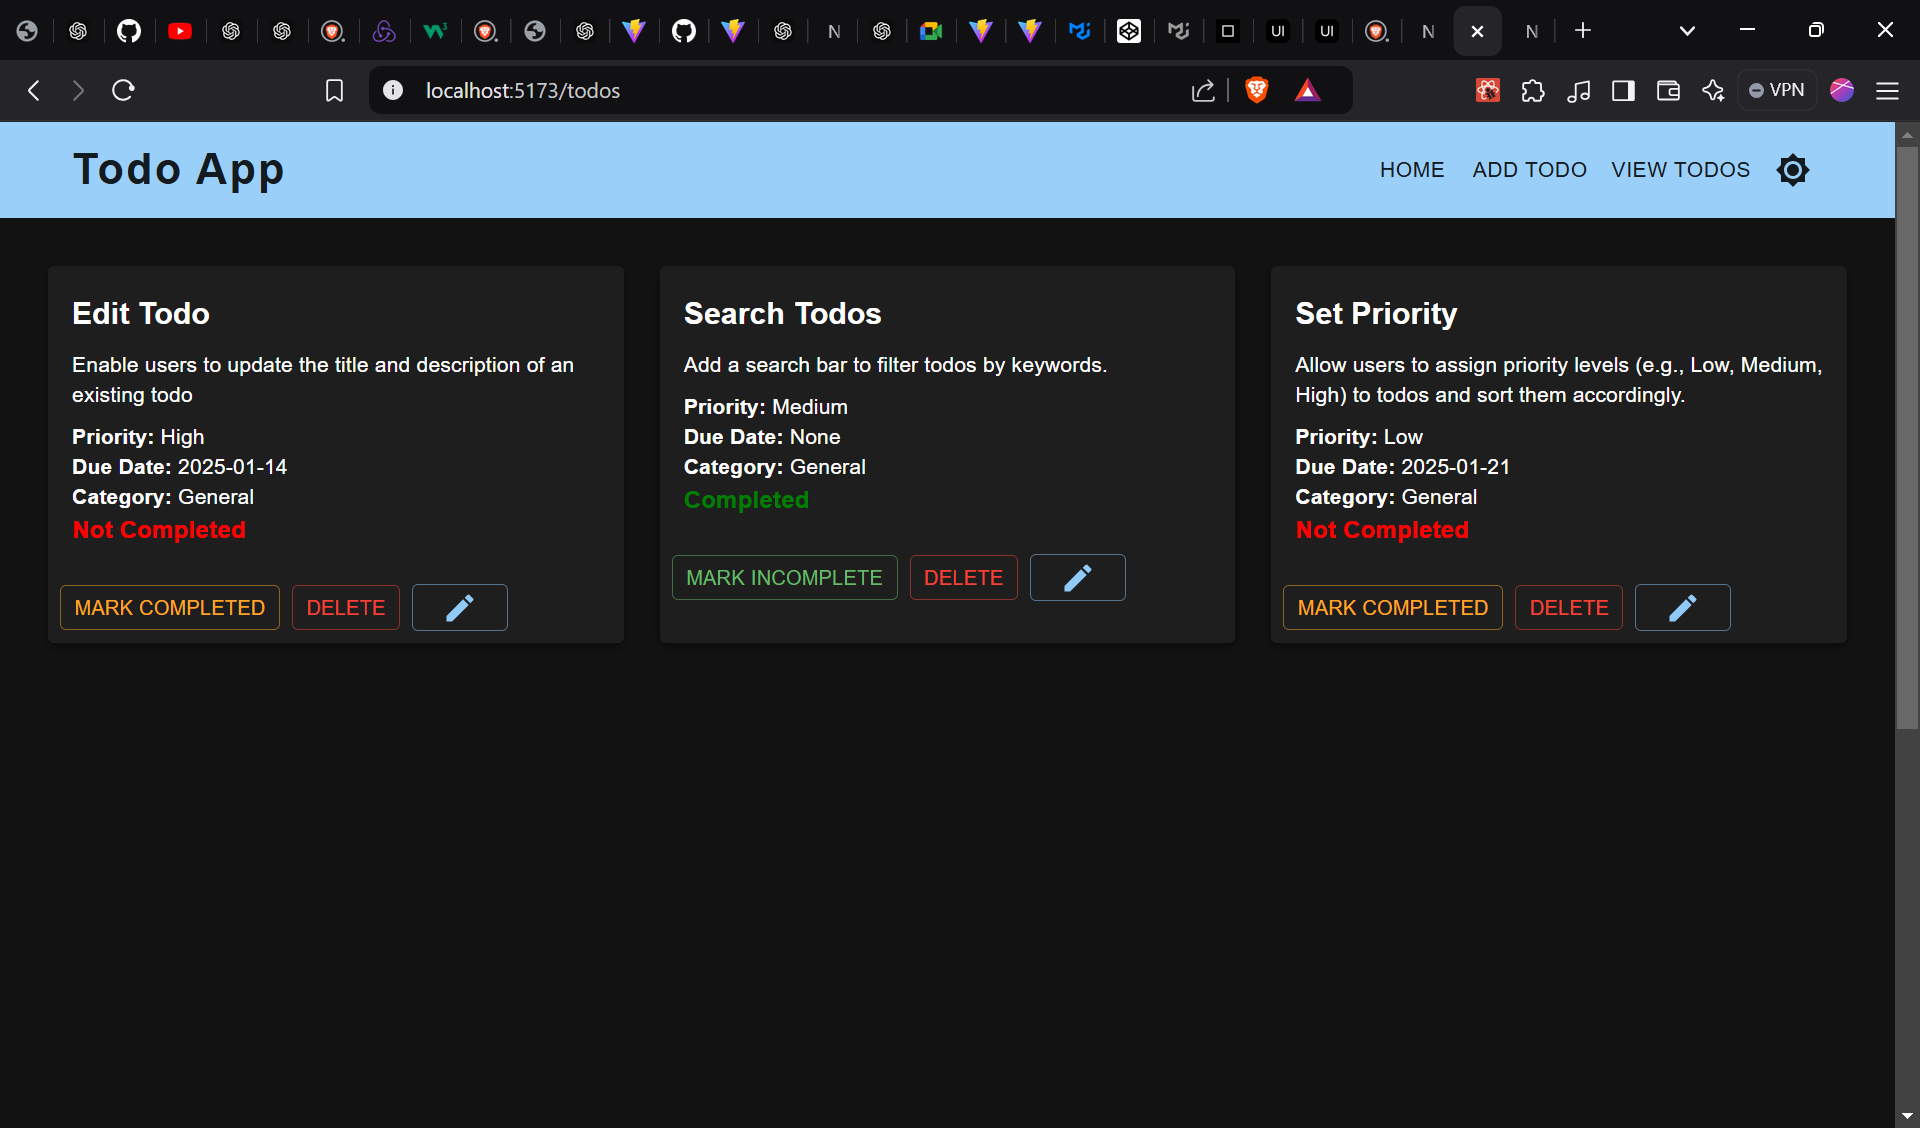
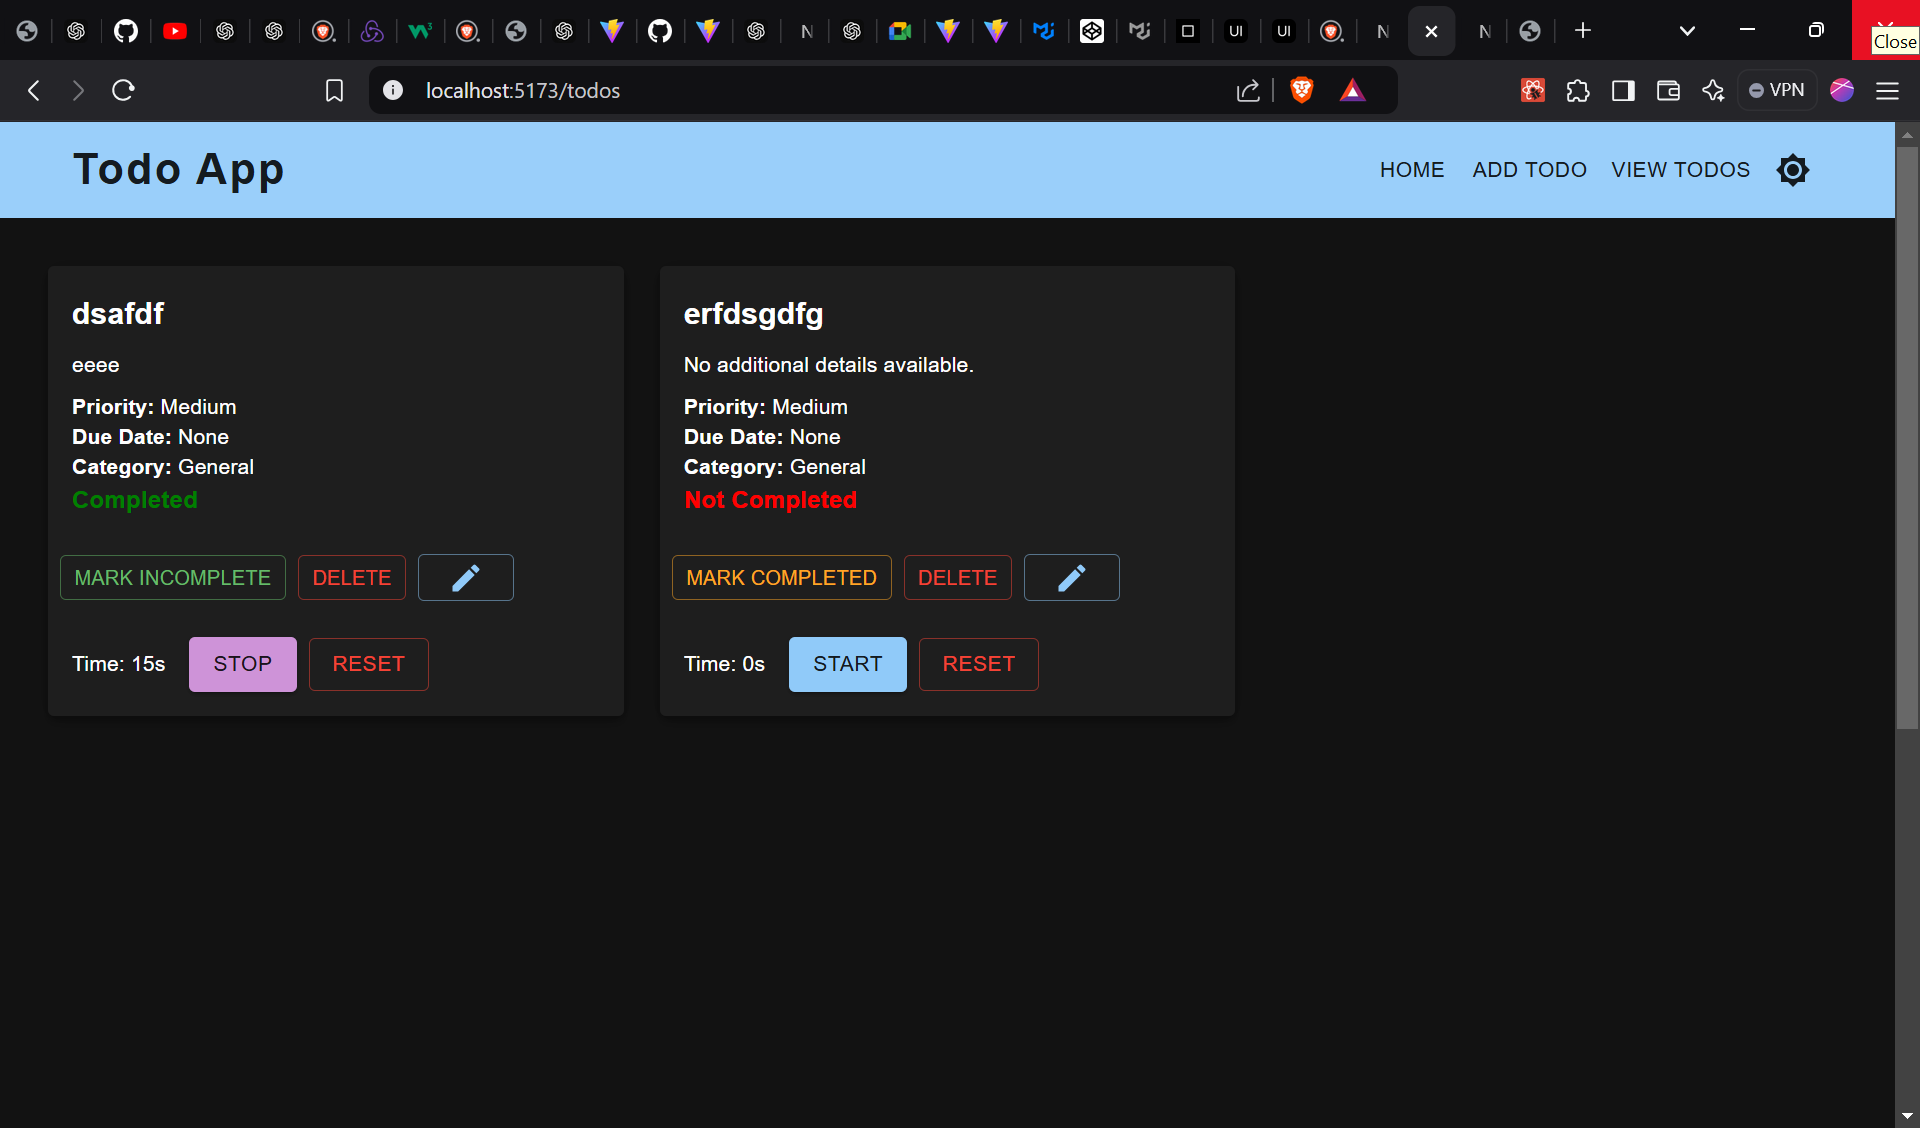
updated

diff --git a/src/component/TodoList.jsx b/src/component/TodoList.jsx
@@ -1,27 +1,14 @@
+// src/components/TodoList.js
 import React, { useState } from "react";
 import { useDispatch, useSelector } from "react-redux";
-import { useNavigate } from "react-router-dom";
-import {
-  Card,
-  CardContent,
-  Typography,
-  CardActions,
-  Button,
-  Dialog,
-  DialogActions,
-  DialogContent,
-  DialogTitle,
-  TextField,
-  MenuItem,
-  Box,
-} from "@mui/material";
+import { Box, Button, Card, CardActions, CardContent, Dialog, DialogActions, DialogContent, DialogTitle, MenuItem, TextField, Typography } from "@mui/material";
 import { deleteTodo, toggleTodo, updateTodo } from "../slices/todoSlice";
 import EditIcon from "@mui/icons-material/Edit";
+import Timer from './Timer';  // Import Timer component
 
 const TodoList = () => {
   const todos = useSelector((state) => state.todo.todos);
   const dispatch = useDispatch();
-  
 
   const [open, setOpen] = useState(false);
   const [currentTodo, setCurrentTodo] = useState(null);
@@ -71,17 +58,18 @@ const TodoList = () => {
     }
 
     if (currentTodo) {
-      if(confirm('you Want to save the Changes')){
-      dispatch(
-        updateTodo({
-          id: currentTodo.id,
-          title: updatedTitle.trim(),
-          description: updatedDescription.trim(),
-          priority: updatedPriority,
-          dueDate: updatedDueDate,
-          category: updatedCategory,
-        })
-      );}
+      if(confirm('you want to save the changes?')){
+        dispatch(
+          updateTodo({
+            id: currentTodo.id,
+            title: updatedTitle.trim(),
+            description: updatedDescription.trim(),
+            priority: updatedPriority,
+            dueDate: updatedDueDate,
+            category: updatedCategory,
+          })
+        );
+      }
       handleClose();
     }
   };
@@ -135,6 +123,8 @@ const TodoList = () => {
                   <EditIcon />
                 </Button>
               </CardActions>
+               {/* Add Timer component for each todo */}
+               <Timer todoId={todo.id} />
             </Card>
           ))}
         </Box>

diff --git a/src/component/Timer.jsx b/src/component/Timer.jsx
@@ -1,0 +1,55 @@
+// src/components/Timer.js
+import React, { useEffect } from "react";
+import { useDispatch, useSelector } from "react-redux";
+import { Box, Button, Typography } from "@mui/material";
+import { startTimer, stopTimer, resetTimer, incrementTimer } from "../slices/timerSlice";
+
+const Timer = ({ todoId }) => {
+  const dispatch = useDispatch();
+  const timer = useSelector((state) => state.timer.timers[todoId]?.time || 0);
+  const isRunning = useSelector((state) => state.timer.timers[todoId]?.isRunning || false);
+
+  useEffect(() => {
+    let timerInterval;
+    if (isRunning) {
+      timerInterval = setInterval(() => {
+        dispatch(incrementTimer({ todoId }));
+      }, 1000); // Increment every second
+    } else {
+      clearInterval(timerInterval);
+    }
+
+    return () => clearInterval(timerInterval);
+  }, [isRunning, dispatch, todoId]);
+
+  const handleStartStop = () => {
+    if (isRunning) {
+      dispatch(stopTimer({ todoId }));
+    } else {
+      dispatch(startTimer({ todoId }));
+    }
+  };
+
+  const handleReset = () => {
+    dispatch(resetTimer({ todoId }));
+  };
+
+  return (
+    <Box sx={{ display: "flex", alignItems: "center", margin: 2 }}>
+      <Typography variant="body2">Time: {timer}s</Typography>
+      <Button
+        variant="contained"
+        color={isRunning ? "secondary" : "primary"}
+        onClick={handleStartStop}
+        sx={{ marginLeft: 2 }}
+      >
+        {isRunning ? "Stop" : "Start"}
+      </Button>
+      <Button variant="outlined" color="error" onClick={handleReset} sx={{ marginLeft: 1 }}>
+        Reset
+      </Button>
+    </Box>
+  );
+};
+
+export default Timer;

diff --git a/src/slices/timerSlice.js b/src/slices/timerSlice.js
@@ -1,0 +1,40 @@
+// src/slices/timerSlice.js
+import { createSlice } from '@reduxjs/toolkit';
+
+const initialState = {
+  timers: {}, // Store timers for each todo (using todoId as the key)
+};
+
+const timerSlice = createSlice({
+  name: 'timer',
+  initialState,
+  reducers: {
+    startTimer: (state, action) => {
+      const { todoId } = action.payload;
+      if (!state.timers[todoId]) {
+        state.timers[todoId] = { time: 0, isRunning: true };
+      } else {
+        state.timers[todoId].isRunning = true;
+      }
+    },
+    stopTimer: (state, action) => {
+      const { todoId } = action.payload;
+      if (state.timers[todoId]) {
+        state.timers[todoId].isRunning = false;
+      }
+    },
+    resetTimer: (state, action) => {
+      const { todoId } = action.payload;
+      state.timers[todoId] = { time: 0, isRunning: false };
+    },
+    incrementTimer: (state, action) => {
+      const { todoId } = action.payload;
+      if (state.timers[todoId]?.isRunning) {
+        state.timers[todoId].time += 1;
+      }
+    },
+  },
+});
+
+export const { startTimer, stopTimer, resetTimer, incrementTimer } = timerSlice.actions;
+export const timerReducer = timerSlice.reducer;

diff --git a/src/store/store.js b/src/store/store.js
@@ -1,9 +1,11 @@
 import { configureStore } from "@reduxjs/toolkit";
 import { todoReducer } from "../slices/todoSlice";
+import { timerReducer } from "../slices/timerSlice";
 
 const store = configureStore({
     reducer: {
-        todo : todoReducer
+        todo : todoReducer,
+        timer: timerReducer
     }, 
 })
 

diff --git a/README.md b/README.md
@@ -1,13 +1,14 @@
 # Todo App Using React and Redux
 
 ## Overview
-The **Todo App** is a simple and intuitive web application for managing tasks. It allows users to create, view, and organize their to-do lists efficiently. The application is built using React and Material-UI, providing a clean and responsive interface. Additionally, the app includes a dark mode toggle for better usability in different lighting conditions.
+The **Todo App** is a simple and intuitive web application for managing tasks. It allows users to create, view, and organize their to-do lists efficiently. The application is built using React and Material-UI, providing a clean and responsive interface. Additionally, the app includes a dark mode toggle for better usability in different lighting conditions.It also features a Timer for each Todo item, which helps track the time spent on tasks.
 
 ## Features
 - **Add Todo**: Create new tasks with titles and descriptions.
 - **View Todos**: View a list of all tasks with their statuses (completed/pending).
 - **Mark as Complete**: Mark tasks as completed to keep track of progress.
 - **Delete Todo**: Remove unwanted tasks from the list.
+- **Timer**: Each Todo has an integrated timer that tracks the time spent on the task.
 - **Responsive Design**: Adapts seamlessly to different screen sizes.
 - **Dark Mode**: Toggle between light and dark themes for a personalized experience.
 - **Contact Us**: Integrated contact options via email and WhatsApp.
@@ -16,6 +17,7 @@ The **Todo App** is a simple and intuitive web application for managing tasks. I
 - **Frontend**: React, Material-UI
 - **Routing**: React Router
 - **Icons**: Material-UI Icons
+- **State Management**: Redux (for managing Todo list state)
 
 ## Installation
 1. Clone the repository:
@@ -52,8 +54,12 @@ The **Todo App** is a simple and intuitive web application for managing tasks. I
 │   │   ├── Footer.jsx      // Footer with contact options
 │   │   ├── TodoInput.jsx   // Input field for adding todos
 │   │   ├── TodoList.jsx    // Main Todo List component
+│   │   ├── Timer.jsx       // Timer component for tracking time on each Todo
 │   ├── pages
 │   │   ├── HomePage.jsx    // Home page
+│   ├── slices
+|   |   |── timerSlice.js   // manage the state for timer
+|   |   |── todoSlice.js    // manage the state for todo
 │   ├── App.jsx             // Main application file
 │   ├── index.jsx           // Application entry point
 │   ├── themes.jsx          // Theme configuration
@@ -78,6 +84,7 @@ The **Todo App** is a simple and intuitive web application for managing tasks. I
 - **Homepage**: Displays the header with navigation and an introduction.
 - **Add Todo**: Navigate to `/add-todo` to create a new task.
 - **View Todos**: Navigate to `/todos` to see all tasks with options to edit or delete them.
+- **Timer**: Each Todo has an integrated timer that starts when the Todo item is created and can be viewed on the  Todo list page.
 - **Dark Mode**: Use the toggle button in the header to switch themes.
 
 ## Contact
